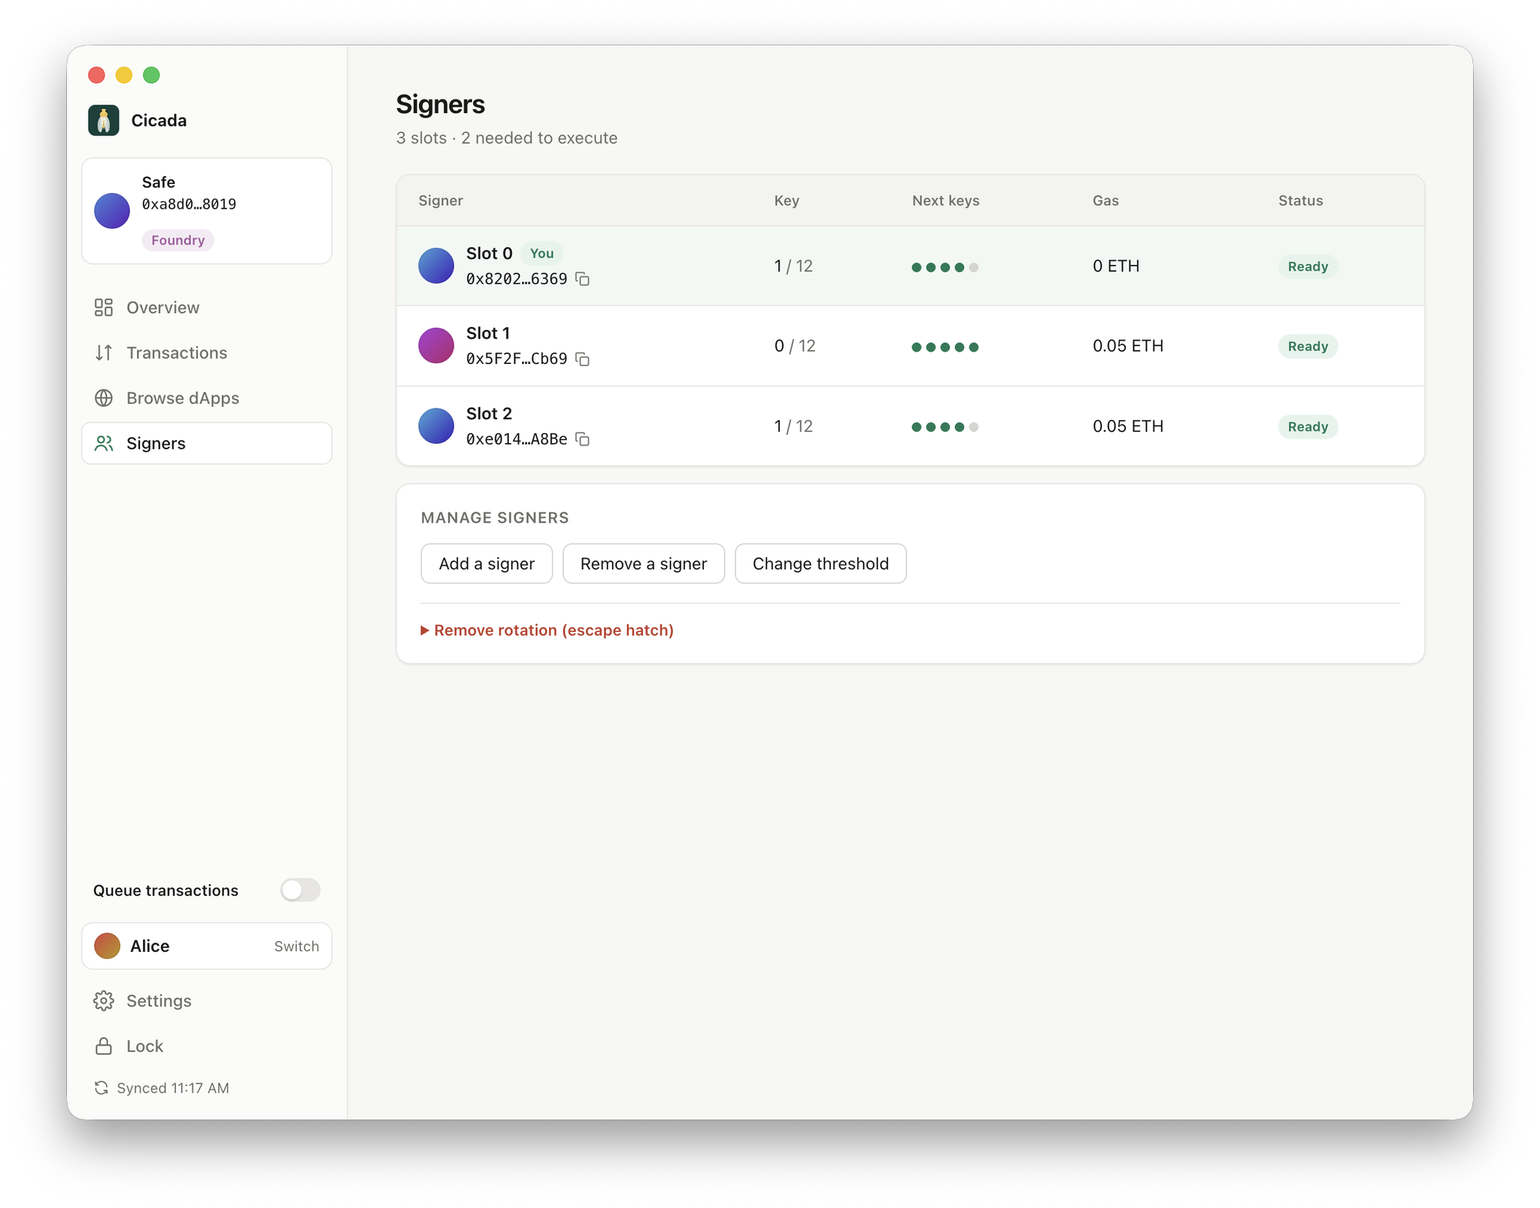
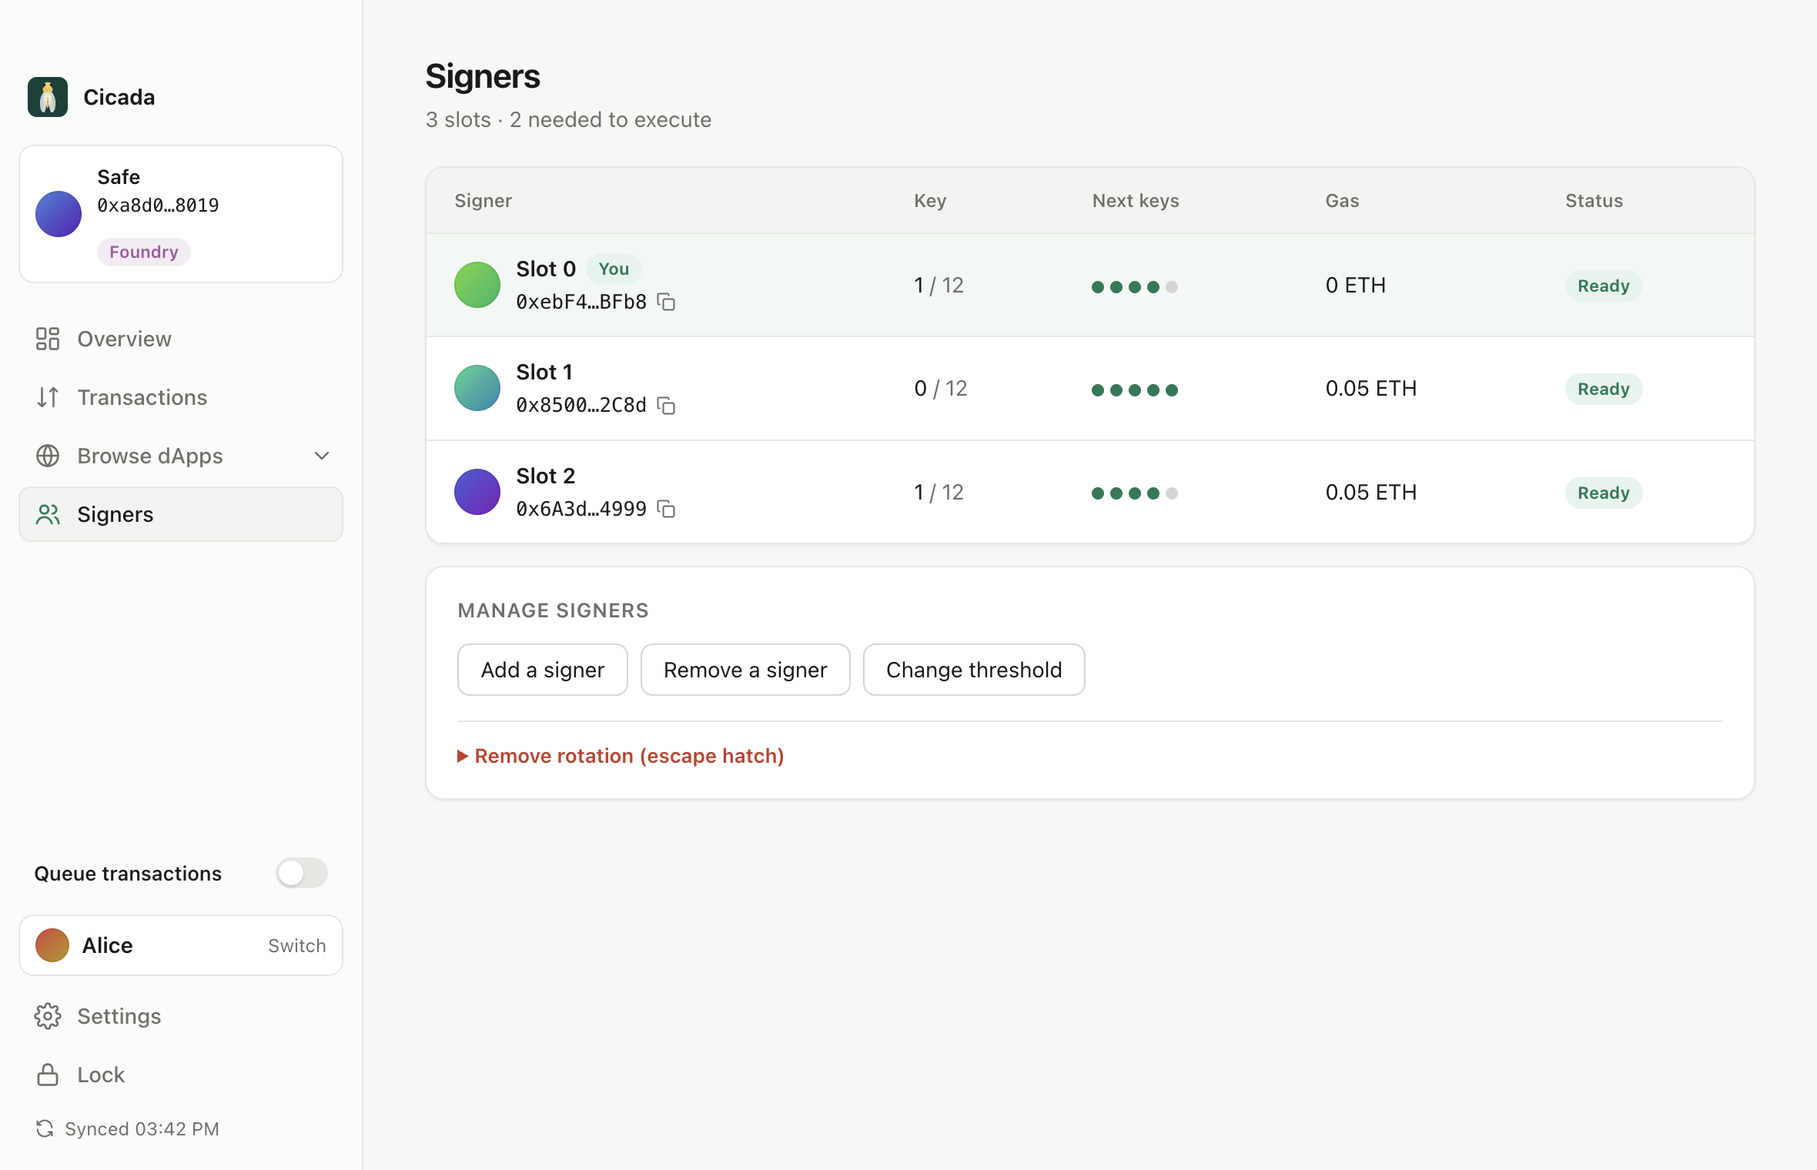
Shorten the README and add a browser screenshot; name the key derivation after Cicada
The derivation domains are now cicada/two-level and cicada/per-safe, which moves every key: Safes created before this must be recreated.

diff --git a/packages/core/src/base.ts b/packages/core/src/base.ts
@@ -24,8 +24,8 @@ export function safeKeyPath(chainId: number, safe: Address, generation = 0): { a
   const hash = BigInt(
     keccak256(
       generation === 0
-        ? encodeAbiParameters([{ type: "uint256" }, { type: "address" }, { type: "string" }], [BigInt(chainId), getAddress(safe), "keyturn/two-level"])
-        : encodeAbiParameters([{ type: "uint256" }, { type: "address" }, { type: "string" }, { type: "uint256" }], [BigInt(chainId), getAddress(safe), "keyturn/two-level", BigInt(generation)]),
+        ? encodeAbiParameters([{ type: "uint256" }, { type: "address" }, { type: "string" }], [BigInt(chainId), getAddress(safe), "cicada/two-level"])
+        : encodeAbiParameters([{ type: "uint256" }, { type: "address" }, { type: "string" }, { type: "uint256" }], [BigInt(chainId), getAddress(safe), "cicada/two-level", BigInt(generation)]),
     ),
   );
   return { account: MIN_TREE_BASE + Number(hash % SAFE_ACCOUNT_SPAN), branch: Number((hash >> 128n) % 2n ** 31n) };
@@ -37,7 +37,7 @@ export function safeKeyPath(chainId: number, safe: Address, generation = 0): { a
  * share an account with probability about 1 in 2 billion.
  */
 export function safeAccount(chainId: number, safe: Address): number {
-  const hash = keccak256(encodeAbiParameters([{ type: "uint256" }, { type: "address" }, { type: "string" }], [BigInt(chainId), getAddress(safe), "keyturn/per-safe"]));
+  const hash = keccak256(encodeAbiParameters([{ type: "uint256" }, { type: "address" }, { type: "string" }], [BigInt(chainId), getAddress(safe), "cicada/per-safe"]));
   return MIN_TREE_BASE + Number(BigInt(hash) % SAFE_ACCOUNT_SPAN);
 }
 

diff --git a/signer/scripts/screenshots.ts b/signer/scripts/screenshots.ts
@@ -115,6 +115,30 @@ await page.getByText("3 slots · 2 needed to execute").waitFor();
 await page.waitForTimeout(1500);
 await shot("signers");
 
+// The dApp browser, with the page saved and the saved pages open in the sidebar. Window captures leave out the dApp's
+// own view, so its page is captured on its own and painted into the viewport before the window is captured.
+await nav("Browse dApps");
+const address = page.getByPlaceholder(/Enter a dApp address/);
+await address.fill("app.uniswap.org");
+await address.press("Enter");
+await page.locator('[role="tab"][aria-selected="true"]', { hasText: "Uniswap" }).waitFor();
+// Saved once the page has settled: Uniswap redirects to /swap after loading.
+await page.waitForTimeout(8000);
+await page.getByRole("button", { name: "Save this page" }).click();
+await page.getByRole("button", { name: "Saved pages", exact: true }).click();
+await page.mouse.move(0, 0);
+const dappImage = await app.evaluate(async ({ webContents }) => {
+  const contents = webContents.getAllWebContents().find((candidate) => candidate.getURL().startsWith("https://app.uniswap.org"));
+  return contents ? (await contents.capturePage()).toDataURL() : undefined;
+});
+if (dappImage) {
+  await page.evaluate((url) => {
+    const viewport = document.querySelector<HTMLElement>(".browser-viewport");
+    if (viewport) viewport.style.background = `url(${url}) top left / 100% 100% no-repeat`;
+  }, dappImage);
+}
+await shot("browser");
+
 await app.close();
 await service.stop();
 chain.stop();

diff --git a/README.md b/README.md
@@ -8,83 +8,56 @@
 
 [![CI](https://github.com/phonkmonk-r/rotating-msig/actions/workflows/test.yml/badge.svg)](https://github.com/phonkmonk-r/rotating-msig/actions/workflows/test.yml)
 ![Solidity 0.8.30](https://img.shields.io/badge/Solidity-0.8.30-363636?logo=solidity&logoColor=white)
-![Built with Foundry](https://img.shields.io/badge/built%20with-Foundry-f26b1d)
 ![Safe 1.5.0](https://img.shields.io/badge/Safe-1.5.0-12ff80?logoColor=black)
 ![Ethereum Sepolia](https://img.shields.io/badge/Ethereum-Sepolia-3c3c3d?logo=ethereum&logoColor=white)
-![Node 22](https://img.shields.io/badge/Node-22-339933?logo=node.js&logoColor=white)
 ![Electron 44](https://img.shields.io/badge/Electron-44-47848f?logo=electron&logoColor=white)
-![Ledger](https://img.shields.io/badge/Ledger-supported-000000?logo=ledger&logoColor=white)
 
 </p>
 
 > [!CAUTION]
-> **Not production ready. The `RotationGuard` contract has not been audited.** This is experimental software, deployed only on Sepolia. Do not use it to hold real funds.
+> Not audited, testnet only. Do not hold real funds with it.
 
-A Safe multisig where no owner key signs twice. Each signature is the last thing its key ever does: the key is swapped out of the owner list in the same transaction, for a fresh one that was committed in advance. Cicada is the desktop app that makes this usable, and `RotationGuard` is the contract that enforces it.
+A Safe multisig where no owner key signs twice. Every key that signs a transaction is replaced in that same transaction by a fresh key committed in advance, so the Safe's owners are always keys whose public keys have never been seen.
 
-<img src="screenshots/overview.png" alt="The Cicada overview page: your slot, current key, gas account and staged next keys" width="800">
+Why the name: a cicada climbs out of its shell and leaves the empty husk behind, as each signature leaves its exposed key.
 
-## The problem
+<img src="screenshots/overview.png" alt="Overview: your slot, current key, gas account and staged next keys" width="800">
 
-An Ethereum address is a hash of a public key. As long as a key has never signed anything, nobody knows its public key, and there is nothing to attack. The moment it signs, the public key is in the signature, on-chain, for good.
+## Why
 
-That is fine while deriving a private key from a public key is impossible. It stops being fine if that ever changes, whether through a large enough quantum computer or a flaw in secp256k1. Anything signed before that day was recorded and can be worked on afterwards. A multisig does not help by itself: its owner keys sign all the time, so every one of them is public.
-
-A treasury expects to sit for years. Its signing keys should not be a bet on what cryptanalysis looks like in ten.
-
-## What Cicada does
-
-Cicada treats owner keys as single-use. You sign with the key that currently owns your slot, and that key stops being an owner in the same transaction. What replaces it is the next address from a list you committed when you joined, so an attacker who cracked the old key cannot pick its successor. At any moment, the current owners of the Safe are addresses whose public keys have never been seen.
-
-The Safe stays a normal Safe 1.5.0. Safe{Wallet} still shows it, and the same Transaction Service queues proposals and confirmations. Cicada replaces the signing side: it knows which of your keys is current by reading the chain, signs with exactly that key, executes when it is your turn, and keeps your next keys staged.
-
-## Screenshots
-
-<img src="screenshots/welcome.png" alt="First launch" width="800">
-
-<img src="screenshots/transactions.png" alt="A transaction another signer proposed and confirmed, waiting for you to execute" width="800">
-
-<img src="screenshots/executed.png" alt="After executing: simulation, gas for the signing key, inclusion, rotation, unused gas returned" width="800">
-
-<img src="screenshots/signers.png" alt="Every slot of the Safe, with its current key index, staged keys and gas" width="800">
+A key's public key stays hidden until it signs. After that it is public forever. If recovering a private key from a public key ever becomes practical (a large quantum computer, a flaw in secp256k1), every key that has ever signed is at risk. Multisig owners sign constantly, so all of them are exposed. Cicada makes every owner key single-use.
 
 ## How it works
 
-**Slots and key lists.** Every signer owns one slot. When you join, your app derives a long list of addresses from your seed or Ledger (10,000 by default, each on its own path), builds a Merkle tree over them and commits the root on-chain. The list itself is not secret: it only holds addresses. The next five addresses of each slot are staged in the guard, each with a proof against the root. Staging is permissionless, since a proof is all it takes, so anyone may pay for it. Your own app does it from your gas account.
+- **Contract.** `RotationGuard` is a Safe guard and module. After every transaction it swaps each signer for the next key of their slot, whether the call succeeded or not, and checks that the owners are still exactly one current key per slot.
+- **Key lists.** Each signer's keys are derived from their seed or Ledger, one path per key. A Merkle root of the list is committed on-chain and the next five keys are staged with proofs.
+- **App.** Cicada reads which key is current from the chain, signs with it, executes when it is your turn, stages your next keys, and funds the signing key with just enough gas, then sweeps the rest back.
+- **Escape hatch.** A transaction that is exactly `setGuard(0)` removes the guard without rotating; its signers' keys count as burned.
 
-**A transaction.** Someone proposes: their signature is their confirmation, and it goes to the Transaction Service like any Safe signature. Other signers confirm the same way, but only up to one fewer than the threshold. The last signer does not confirm. They execute, so their signature goes straight on-chain and their account is the one sending the transaction. The guard checks the transaction before it runs: exactly `threshold` signatures, the executor among the signers, no signature from a key that is not an owner, no delegatecall except through MultiSendCallOnly, no approved-hash tricks. After the call, succeeded or not, it swaps every signer for the next staged key of their slot and checks that the owner list is still exactly one key per slot. A key that signed is never an owner again, even when the call it signed for reverted.
+[ARCHITECT.md](ARCHITECT.md) covers the contract, packages and app in detail. [PLAN.md](PLAN.md) has the design decisions and what is next.
 
-**Keys.** Cicada works from addresses. It reads each slot's current owner and tree index from the chain and derives that one key when it is time to sign. With a Ledger, the keys never leave the device and each signature is confirmed on its screen. With a seed phrase, the seed is encrypted on disk with your password (scrypt, AES-256-GCM), unlocked for the session and wiped on lock.
+## Screenshots
 
-**Gas.** A fresh key has no ETH. Right before executing, the app sends the signing key just enough from your gas account (the first account of your seed, never an owner), and sweeps what is left back afterwards. Both transfers show up as steps in the execution view.
+<img src="screenshots/transactions.png" alt="A transaction waiting for you to execute" width="800">
 
-**Escape hatch.** A transaction that is exactly `setGuard(0)` on the Safe is let through without rotation, in case the guard itself is the problem. Its signers are not rotated, so their keys count as burned. The guard verifies that nothing but the guard changed.
+<img src="screenshots/executed.png" alt="Execution steps: simulation, gas for the key, inclusion, rotation, gas returned" width="800">
 
-**Running out.** Each key list is finite. When a slot runs low, the signer renews it from the app: a new list, a new root, same seed.
+<img src="screenshots/browser.png" alt="The dApp browser: Uniswap with the Safe as its wallet, tabs and saved pages" width="800">
 
-ARCHITECT.md walks through the contract, the packages and the app in detail. PLAN.md has the design history, the exposure analysis and what comes next.
+<img src="screenshots/signers.png" alt="Every slot with its current key and staged keys" width="800">
 
 ## Limitations
 
-This is a testnet project. It has not been audited, and it should not hold anything you would miss. The guard is deployed on Sepolia only. Deploying it currently sits right at Sepolia's per-transaction gas cap, which is why some views were dropped from the contract.
+- Confirmations sit on the Transaction Service before execution, so their public keys are visible until it lands. The app keeps that below the threshold.
+- A transaction that is sent but never mined leaves its signers exposed. The app tracks every signature it makes and offers a one-click rotation of the exposed slots.
+- No message signing (permits, sign-in with Ethereum). It would expose a key without rotating it.
+- Safe{Wallet} can view these Safes but not propose to them: the guard requires gas settings it does not set.
+- Rotation costs roughly 45,000 to 70,000 gas per signer on top of a normal Safe transaction.
+- Ledger signing has not been tried on a real device yet. The app runs from source; it is not packaged.
 
-Off-chain confirmations are public before execution. Every confirmation posted to the Transaction Service reveals a public key that is still an owner until the transaction executes. The app caps that at one below the threshold, so what is exposed is never enough to sign, and allows one pending proposal at a time. The window is real, though. A signed transaction that never executes leaves those keys exposed; force-rotating the slots that signed it is a choice under New transaction, not something the app does on its own.
+## Run it
 
-An execution that is sent but never mined exposes a full threshold of keys: the confirmers plus the executor. The app keeps a log of every signature it makes and the executions it sent, so this is caught even across a restart and without any view of the mempool. The executor can resend with a higher fee, and if the transaction is abandoned, one button proposes a force-rotate of every exposed slot at the same nonce, which also cancels it. Until that lands, those keys are exposed.
-
-The app refuses to sign messages. Permits, sign-in with Ethereum, off-chain orders and anything else EIP-1271 would expose a key without rotating it, and the signature would stop verifying once owners rotate anyway. dApps that need a signed message to log in do not work through Cicada. CoW Swap and others fall back to on-chain approvals for Safes.
-
-Safe{Wallet} is a viewer. The owner keys live only in Cicada, so nothing signs from Safe{Wallet}, and 1-of-1 Safes cannot transact from the app at all (proposing needs a threshold of two or more).
-
-Rotation costs gas: roughly 50,000 to 75,000 per signer on top of a normal Safe transaction, plus staging and the gas transfers.
-
-Never reuse an owner address on another chain. The key lists are bound to one chain and one Safe, and an address that signed elsewhere is exposed there.
-
-Ledger profiles work through the app's code paths and tests, but signing has not yet been run on a physical device. The desktop app is not packaged or code-signed; run it from source.
-
-## Running it
-
-Requirements: Node 22, Foundry, and for the tests anvil.
+Needs Node 22 and Foundry.
 
 ```sh
 npm install
@@ -92,25 +65,22 @@ forge build
 npm run desktop -w @rotating-msig/signer
 ```
 
-On first launch, add a profile from a seed phrase or a Ledger, and either paste the address of a Safe you are a signer of or create a new one with the other signers. Everything else is read from the chain.
-
-Tests:
+Add a profile from a seed phrase or a Ledger, then join a Safe by its address or create a new one.
 
 ```sh
-forge test                                   # the contract (the fork suite needs MAINNET_RPC_URL)
-npm run typecheck && npm test                # TypeScript, with real Safe and guard contracts on anvil
-npm run test:app -w @rotating-msig/signer    # Playwright drives the real desktop app
-npm run screenshots -w @rotating-msig/signer # regenerates the images in screenshots/
+forge test                                   # contract
+npm run typecheck && npm test                # TypeScript, against real contracts on anvil
+npm run test:app -w @rotating-msig/signer    # the desktop app, driven by Playwright
+npm run screenshots -w @rotating-msig/signer # regenerates screenshots/
 ```
 
 ## Layout
 
 | Path | What |
 |---|---|
-| `src/RotationGuard.sol` | The guard: transaction guard, module and module guard in one singleton per chain. Tests in `test/`. |
-| `packages/core` | Shared TypeScript: tree format, rules engine, proposals, Safe calldata, Transaction Service client. |
-| `packages/keys` | Seed and Ledger key sources, derivation paths, slot discovery. |
-| `signer` | Cicada: the signing session, the Electron app and its UI. Also the `rotation-signer` command-line server. |
-| `generator` | Command-line tree generator, the original manual flow. |
-| `app` | The earlier Safe App, kept for installing through Safe{Wallet}. |
+| `src/RotationGuard.sol` | The guard. Tests in `test/`. |
+| `packages/core` | Shared TypeScript: key lists, rules, proposals, Safe calldata, Transaction Service client. |
+| `packages/keys` | Seed and Ledger key sources and derivation. |
+| `signer` | Cicada: signing session, Electron app, UI, and a command-line server. |
+| `generator` | Command-line key list generator. |
 | `deployments/` | Sepolia addresses. |

diff --git a/PLAN.md b/PLAN.md
@@ -401,7 +401,7 @@ Still to do:
      - 4j-5. Propose in the app: transfers and guard admin, signed as the proposer's own confirmation. Done for ETH and ERC-20 transfers and force-rotating chosen slots (`buildProposal` in core, `SignerSession.propose`, New transaction on the Transactions page); a proposal needs threshold 2 or more and an empty queue, is checked by the same rules as a confirmation, and is posted to the Transaction Service with the proposer's signature. Proposers (delegates) are not used: a delegate dies when the owner who registered it rotates. Other guard admin actions are still to do.
      - 4j-6. Ledger in Electron, then packaging and code signing. Profiles done (2026-10-08): any number of seed or Ledger profiles, each with its own folder (vault, settings, trees, Safe creation), one unlocked at a time; a Ledger profile stores only its device's first address and refuses another device; old installs migrate into a first profile (`signer/desktop/profiles.ts`). The Ledger USB library (node-hid, N-API) loads in Electron without a rebuild; signing on a real device is still to verify, then packaging and code signing.
      - 4j-7. dApp browser (decided 2026-10-08). Done: Browse dApps opens any https dApp in a sandboxed view with its own session partition and no permissions, and injects an EIP-1193 wallet (also announced through EIP-6963) whose account is the Safe. Reads go to the RPC; `eth_sendTransaction` and EIP-5792 `wallet_sendCalls` become one proposal (several calls batched through MultiSendCallOnly) that the user reviews in the app's own UI, with the page hidden, and signs as their confirmation. The dApp gets the safeTxHash; `wallet_getCallsStatus` and receipt lookups for it answer from the Safe's execution events once a signer executes. dApps may not call the Safe or the guard. Message signing is refused, since it would expose an owner key without rotation and the signature dies when owners rotate. One request is reviewed at a time, and proposing still needs an empty queue. The main UI's IPC now rejects calls from any other web contents. Not done: WalletConnect for dApps in the user's own browser; an owner-key mode for Safe{Wallet}.
-     - 4j-8. Name and icon: the desktop app is called **Cicada** (a cicada climbs out of its shell and leaves the empty husk behind, as each signature leaves its exposed key). Icon in `signer/desktop/assets` (SVG source, PNG, macOS `.icns`): an amber cicada with folded wings on dark green, also the icon dApps see for the wallet (EIP-6963). Done 2026-10-09. The key-derivation domain strings (`keyturn/two-level`, `keyturn/per-safe`) are fixed constants: changing them would move every Safe's keys.
+     - 4j-8. Name and icon: the desktop app is called **Cicada** (a cicada climbs out of its shell and leaves the empty husk behind, as each signature leaves its exposed key). Icon in `signer/desktop/assets` (SVG source, PNG, macOS `.icns`): an amber cicada with folded wings on dark green, also the icon dApps see for the wallet (EIP-6963). Done 2026-10-09. The key-derivation domain strings are `cicada/two-level` and `cicada/per-safe` (renamed 2026-10-09, which moved every key: Safes created before then must be recreated); changing them again would do the same.
      - 4j-9. Transaction queue. Done 2026-10-08.
        - A "Queue transactions" switch at the bottom of the sidebar makes Add to queue the default for New transaction, signer management and dApp requests; with it off, each action is still proposed on its own, and Add to queue stays available per action. The escape hatch cannot be queued.
        - The queue lives in memory in the signing process (lost on lock). The Transactions page shows it: reorder, remove, clear, and a simulated outcome (each call's success, the Safe's balance changes, new approvals, with unlimited approvals flagged). Review, then Sign & propose sends everything as one MultiSendCallOnly transaction (nested batches flattened), so each signer signs and rotates once.
@@ -628,7 +628,7 @@ A seed (or Ledger) can sign for several Safes, possibly from different computers
 |---|---|---|---|
 | Ranged | `m/44'/60'/{base + i}'/0/0` | `base = 100,000 + keccak(chain, Safe) mod 10^9` | First Sepolia Safes |
 | One-level per Safe | `m/44'/60'/{a}'/0/{i}` | `a = 100,000 + h mod S`, `S = 2^31 - 2^20 - 100,000 = 2,146,335,072` | Briefly on 2026-10-08 |
-| Two-level per Safe | `m/44'/60'/{a}'/{b}'/{i}` | `h = keccak(chain, Safe, "keyturn/two-level")`; `a = 100,000 + h mod S`; `b = (h >> 128) mod 2^31` | Current, all new Safes |
+| Two-level per Safe | `m/44'/60'/{a}'/{b}'/{i}` | `h = keccak(chain, Safe, "cicada/two-level")`; `a = 100,000 + h mod S`; `b = (h >> 128) mod 2^31` | Current, all new Safes |
 
 Every device computes `a` and `b` from the chain and Safe address alone, so no coordination or shared registry is needed, which is what makes the result hold across computers.
 
